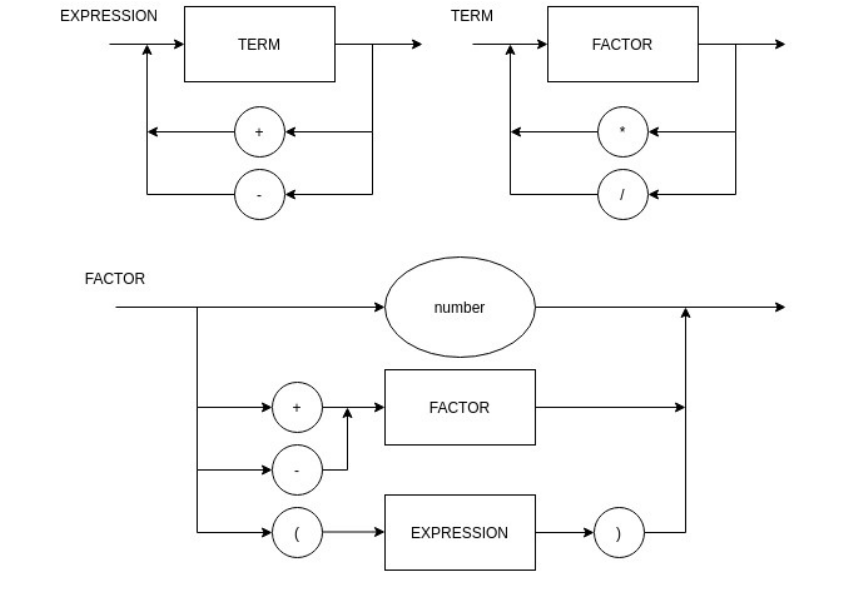
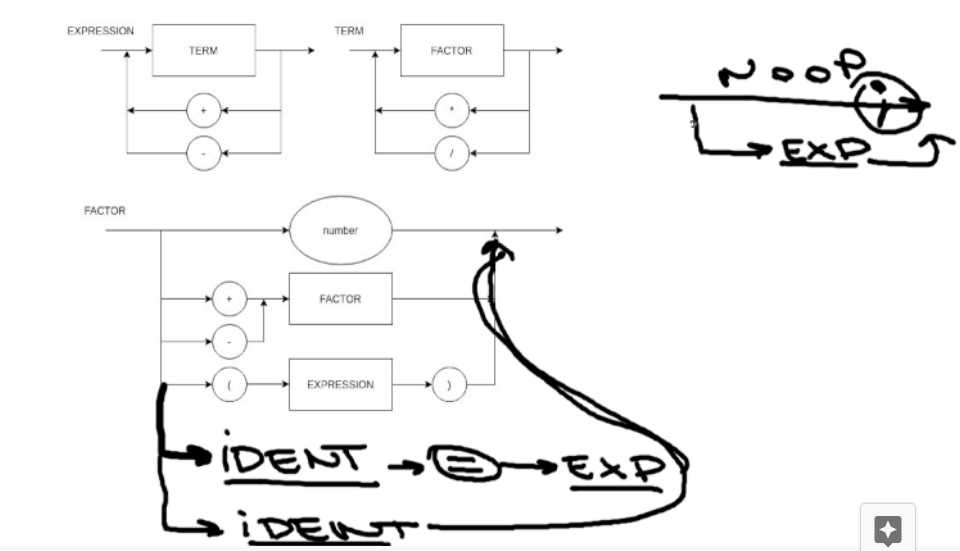
v.2.1

diff --git a/main.py b/main.py
@@ -14,57 +14,16 @@ class Type(Enum):
     SPARENTHESIS = 6
     EPARENTHESIS = 7
     EOF = 8
+    EOL = 9
+    ATR = 10
+    PRINTLN = 11
+    IDENTIFIER = 12
 
 class Token:
 
     def __init__(self, type_: Type, value: int):
         self.type_ = type_
         self.value = value
-
-class Node:
-
-    def __init__(self, token: Token, n_children: int):
-        self.token = token
-        self.children = [NoOp() for i in range(n_children)]
-        
-    def evaluate(self): pass
-
-class BinOp(Node):
-
-    def __init__(self, token: Token):
-        super().__init__(token, 2)
-    
-    def evaluate(self): 
-        r = 0
-        if self.token.type_ == Type.PLUS: 
-            r = self.children[0].evaluate() + self.children[1].evaluate()
-        elif self.token.type_ == Type.SUB: 
-            r = self.children[0].evaluate() - self.children[1].evaluate()
-        elif self.token.type_ == Type.DIV: 
-            r = int(self.children[0].evaluate() / self.children[1].evaluate())
-        elif self.token.type_ == Type.MULT: 
-            r = int(self.children[0].evaluate() * self.children[1].evaluate())
-
-        return r
-
-class UnOp(Node):
-
-    def __init__(self, token: Token):
-        super().__init__(token, 1)
-    
-    def evaluate(self): return self.token.value * self.children[0].evaluate()
-
-class IntVal(Node):
-
-    def __init__(self, token: Token):
-        super().__init__(token, 0)
-    
-    def evaluate(self): return self.token.value
-
-class NoOp(Node):
-
-    def __init__(self):
-        super().__init__(None, 0)
 
 class Tokenizer:
 
@@ -82,9 +41,9 @@ class Tokenizer:
             return
 
         tmp = self.origin[self.position]
-    
-        if tmp == ' ': 
-            while (tmp == ' '):
+
+        if tmp == ' ' or tmp == '\n': 
+            while (tmp == ' ' or tmp == '\n'):
                 self.position += 1
 
                 if self.position == len(self.origin):
@@ -106,6 +65,31 @@ class Tokenizer:
         
             self.position -= 1
             token = Token(Type.INT, int(int_))
+        
+        elif tmp.isalpha():
+            str_ = ''
+            while (True):
+                if len(self.origin) > self.position and (self.origin[self.position].isnumeric() or self.origin[self.position].isalpha() or self.origin[self.position] == "_"):
+                    str_ += self.origin[self.position]
+                    self.position += 1
+                    continue
+                
+                else:
+                    if str_ == "println":
+                        token = Token(Type.PRINTLN, None)
+                        break
+                        
+                    else: 
+                        token = Token(Type.IDENTIFIER, str_)
+                        break
+            
+            self.position -= 1
+
+        elif tmp == "=":
+            token = Token(Type.ATR, None)
+        
+        elif tmp == ";":
+            token = Token(Type.EOL, None)
 
         elif tmp == '+': 
             token = Token(Type.PLUS, 1)
@@ -131,6 +115,87 @@ class Tokenizer:
         self.actual = token
         self.position += 1
 
+class SymbolTable:
+
+    def __init__(self):
+        self.dict = {}
+
+    def _get(self, var_name: str) -> int:
+        if var_name in self.dict: return self.dict[var_name]
+        raise_error("key not found")
+
+    def _set(self, var_name: str, var_value: int):
+        self.dict[var_name] = var_value
+
+class Node:
+
+    def __init__(self, token: Token, n_children: int):
+        self.token = token
+        self.children = [NoOp() for i in range(n_children)]
+        
+    def evaluate(self, st: SymbolTable): pass
+
+class BinOp(Node):
+
+    def __init__(self, token: Token):
+        super().__init__(token, 2)
+    
+    def evaluate(self, st: SymbolTable): 
+        r = 0
+        if self.token.type_ == Type.PLUS: 
+            r = self.children[0].evaluate(st) + self.children[1].evaluate(st)
+        elif self.token.type_ == Type.SUB: 
+            r = self.children[0].evaluate(st) - self.children[1].evaluate(st)
+        elif self.token.type_ == Type.DIV: 
+            r = int(self.children[0].evaluate(st) / self.children[1].evaluate(st))
+        elif self.token.type_ == Type.MULT: 
+            r = int(self.children[0].evaluate(st) * self.children[1].evaluate(st))
+
+        return r
+
+class AtrOp(Node):
+
+    def __init__(self, token: Token):
+        super().__init__(token, 2)
+    
+    def evaluate(self, st: SymbolTable): 
+        st._set(self.children[0].token.value, self.children[1].evaluate(st))
+
+class UnOp(Node):
+
+    def __init__(self, token: Token):
+        super().__init__(token, 1)
+    
+    def evaluate(self, st: SymbolTable): return self.token.value * self.children[0].evaluate(st)
+
+class PrintOp(Node):
+
+    def __init__(self, token: Token):
+        super().__init__(token, 1)
+    
+    def evaluate(self, st: SymbolTable): print(self.children[0].evaluate(st))
+
+class IntVal(Node):
+
+    def __init__(self, token: Token):
+        super().__init__(token, 0)
+    
+    def evaluate(self, st: SymbolTable): return self.token.value
+
+class IdentVal(Node):
+
+    def __init__(self, token: Token):
+        super().__init__(token, 0)
+    
+    def evaluate(self, st: SymbolTable): return st._get(self.token.value)
+
+class NoOp(Node):
+
+    def __init__(self):
+        super().__init__(None, 0)
+    
+    def evaluate(self, st: SymbolTable): return 
+
 class Parser:
 
     def __init__(self):
@@ -145,11 +210,6 @@ class Parser:
             tree.children[0] = tmp
             self.tokenizer.select_next()
             tree.children[1] = self.term()
-            
-        return tree
-
-    def apply_operation(self, token_type: Type, tree: Node) -> Node:
-        
         
         return tree
 
@@ -161,7 +221,29 @@ class Parser:
 
         elif self.tokenizer.actual.type_ == Type.PLUS or self.tokenizer.actual.type_ == Type.SUB:
             node = UnOp(self.tokenizer.actual)
+            self.tokenizer.select_next() 
+            node.children[0] = self.factor()
+            return node
+        
+        elif self.tokenizer.actual.type_ == Type.IDENTIFIER:
+            node = IdentVal(self.tokenizer.actual)
+            
             self.tokenizer.select_next()
+            if self.tokenizer.actual.type_ == Type.ATR:
+                tmp = node
+                node = AtrOp(self.tokenizer.actual)
+                node.children[0] = tmp
+                self.tokenizer.select_next()
+                node.children[1] = self.parse_expression()
+            
+            if self.tokenizer.actual.type_ == Type.INT: raise_error("operator not found")
+            
+            return node
+        
+        elif self.tokenizer.actual.type_ == Type.PRINTLN:
+            node = PrintOp(self.tokenizer.actual)
+            self.tokenizer.select_next()
+            if self.tokenizer.actual.type_ != Type.SPARENTHESIS: raise_error("println is a reserved word")
             node.children[0] = self.factor()
             return node
         
@@ -192,11 +274,21 @@ class Parser:
 
         return tree
 
+    def block(self, code: str):
+        trees = []
+
+        while (self.tokenizer.actual.type_ != Type.EOF):
+            node = self.parse_expression()
+            if not node: node = NoOp()
+            trees += [node]
+            if self.tokenizer.actual.type_ != Type.EOF and self.tokenizer.actual.type_ != Type.EOL: raise_error("not closed sintax")
+            self.tokenizer.select_next()
+        
+        return trees
+
     def code(self, code: str) -> int:
         self.tokenizer = Tokenizer(code)
-        tree = self.parse_expression()
-        if self.tokenizer.actual.type_ != Type.EOF: raise_error("not initialized parenthesis")
-        return tree
+        return self.block(code)
 
 class PrePro:
 
@@ -226,9 +318,9 @@ def raise_error(error: str):
     raise ValueError(error)
 
 def main(argv: str) -> int:
-    f = open(argv, "r").read()
-    tree = Parser().code(PrePro().filter(f))
-    print(tree.evaluate())
+    trees = Parser().code(PrePro().filter(open(argv, "r").read()))
+    st = SymbolTable()
+    for tree in trees: tree.evaluate(st)
     return 0
 
 if __name__ == "__main__":

diff --git a/file.c b/file.c
@@ -1,1 +1,7 @@
-(5 * 3) + 5 --- (5 + 3 * (4 * 9))
+x = 2;
+y = 9;
+
+z = 2+(x*y) --x + y/3;
+
+println(1*10);
+println(z/5);

diff --git a/README.md b/README.md
@@ -6,9 +6,13 @@ Exemplo: python3 main.py "2+2"
 
 EBNF: 
 
+BLOCK = { EXPRESSION } ;
+ASSIGNMENT = IDENTIFIER, "=", EXPRESSION ;
+PRINT = "println", "(", EXPRESSION, ")" ;
 EXPRESSION = TERM, { ("+" | "-"), TERM } ;
-
 TERM = FACTOR, { ("*" | "/"), FACTOR } ;
-
-FACTOR = ("+" | "-"), FACTOR | "(", EXPRESSION,")" | number ;
-
+FACTOR = (("+" | "-"), FACTOR) | NUMBER | "(", EXPRESSION, ")" | IDENTIFIER | ASSIGNMENT | PRINTLN, FACTOR;
+IDENTIFIER = LETTER, { LETTER | DIGIT | "_" } ;
+NUMBER = DIGIT, { DIGIT } ;
+LETTER = ( a | ... | z | A | ... | Z ) ;
+DIGIT = ( 1 | 2 | 3 | 4 | 5 | 6 | 7 | 8 | 9 | 0 ) ; 
